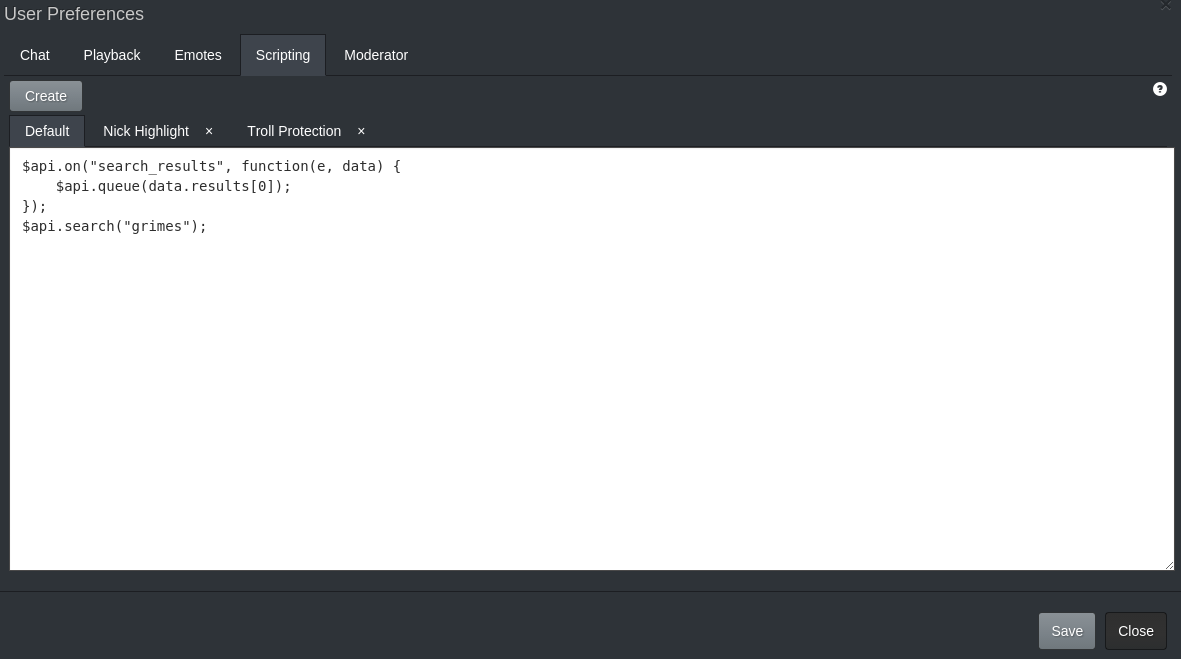
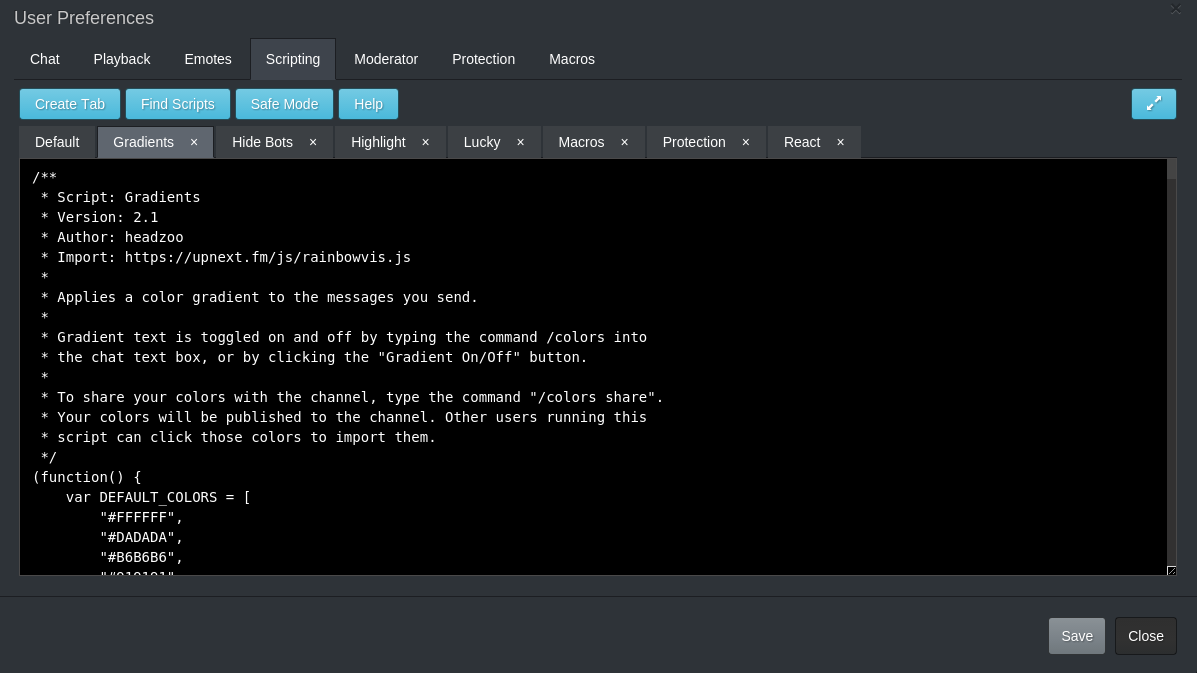
api update and documentation update

diff --git a/www/js/api.js b/www/js/api.js
@@ -1,9 +1,10 @@
-var ChatAPI = null;
+var ChatAPI     = null;
 var ChatOptions = null;
 
 (function() {
     'use strict';
     
+    var API_VERSION        = "1.0";
     var USER_SCRIPTS_INIT  = false;
     var DATABASE_MAX_KEY   = 150;
     var DATABASE_MAX_VALUE = 1024;
@@ -36,6 +37,7 @@ var ChatOptions = null;
     };
     
     ChatAPI = {
+        version: API_VERSION,
         _callbacks: {},
         _load_count: 0,
         _load_min: 4,
@@ -195,7 +197,12 @@ var ChatOptions = null;
                 callback(xhr.responseText);
             });
         },
-        
+    
+        /**
+         * Gets a list of stored keys
+         * 
+         * @param callback
+         */
         keysDatabase: function(callback) {
             callback = callback || noop;
     
@@ -641,8 +648,10 @@ var ChatOptions = null;
          */
         _attachScript: function(name_low, script) {
             if (!SAFE_MODE) {
+                var annotations = JSON.stringify(this._findAnnotations(script));
+                
                 script = "try { " +
-                    "(function($api, $options, $user, $channel, $socket) { \n" + script + "\n})(ChatAPI, ChatOptions, CLIENT, CHANNEL, socket); " +
+                    "(function($api, $options, $user, $channel, $annotations) { \n" + script + "\n})(ChatAPI, ChatOptions, CLIENT, CHANNEL, " + annotations + "); " +
                     "} catch (e) { console.error(e); }";
     
                 $("<script/>").attr("type", "text/javascript")
@@ -779,6 +788,18 @@ var ChatOptions = null;
             }
             
             return imports;
+        },
+        
+        _findAnnotations: function(script) {
+            var annotations = {};
+            var pattern     = /\*\s+([\w]+):\s*(.*)/g;
+            var matches     = pattern.exec(script);
+            while(matches !== null) {
+                annotations[matches[1]] = matches[2].trim();
+                matches = pattern.exec(script);
+            }
+            
+            return annotations;
         },
     
         /**

diff --git a/www/css/help.less b/www/css/help.less
@@ -1,5 +1,6 @@
 #help-page {
-
+  font-family: Consolas, Monaco, monospace;
+  
   a {
     text-decoration: underline;
     
@@ -54,4 +55,14 @@
   display: block;
   font-size: 18px;
   padding: 12px 0 0 0;
+}
+
+#help-table-of-contents {
+  a {
+    text-decoration: none;
+  }
+}
+
+.help-tc-root {
+  font-size: 18px;
 }

diff --git a/www/css/help.css b/www/css/help.css
@@ -1,3 +1,6 @@
+#help-page {
+  font-family: Consolas, Monaco, monospace;
+}
 #help-page a {
   text-decoration: underline;
 }
@@ -43,4 +46,10 @@
   display: block;
   font-size: 18px;
   padding: 12px 0 0 0;
+}
+#help-table-of-contents a {
+  text-decoration: none;
+}
+.help-tc-root {
+  font-size: 18px;
 }
